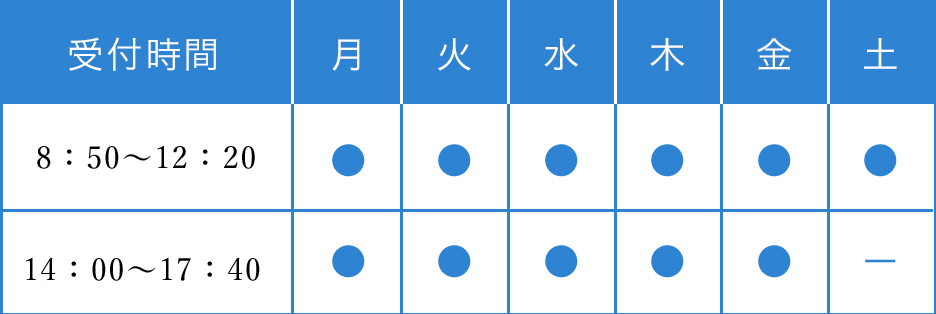
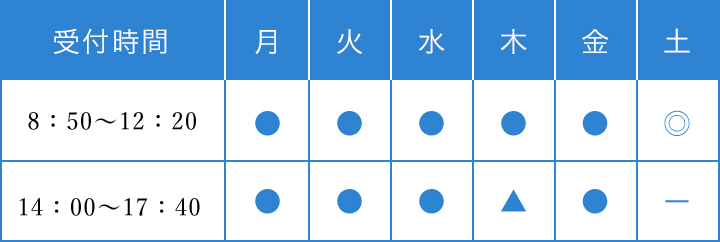
✨ release

diff --git a/htdocs/wp-content/themes/ishibashi/medical/mainsymptom.php b/htdocs/wp-content/themes/ishibashi/medical/mainsymptom.php
@@ -4,35 +4,20 @@
     <p>主な症状と病気</p>
   </h3>
   <div class="medical-contents-item-contents">
-    <p class="medical-contents-item-contents-tit">腰痛</p>
-    <p class="medical-contents-item-contents-main-des">腰痛は怖くない。<br>手術が必要な腰痛はほとんどありません。<br>痛みが強いときには無理は禁物ですが、過度の安静もよくありません。<br>適切なリハビリ（運動療法）が大事です。<br>レッドフラッグサイン（安静時の痛み、発熱、下肢の痺れなど）の見極めが大事。</p>
-    <p class="medical-contents-item-contents-des">腰椎椎間板ヘルニア、腰部脊柱管狭窄症、骨粗鬆症、化膿性脊椎炎、悪性腫瘍、非特異的腰痛</p>
-    <p class="medical-contents-item-contents-tit">膝の痛み</p>
-    <p class="medical-contents-item-contents-main-des">中高年の膝痛の主な原因は、関節軟骨の摩耗と半月板の傷です。<br>ヒアルロン酸の注射と下肢の筋力を鍛える事で痛みを治す事が出来ます。<br>病院でのリハビリや自宅での運動を指導します。</p>
-    <p class="medical-contents-item-contents-des">変形性膝関節症、半月板損傷、脆弱性骨折、骨壊死、関節リウマチ</p>
-    <p class="medical-contents-item-contents-tit">首、肩の痛み、肩こり</p>
-    <p class="medical-contents-item-contents-main-des">肩の周りの筋肉をほぐし、肩の運動をする事で肩関節の機能を回復させます。<br>肩甲骨を動かせるようになる事がポイントです。<br>中高年の場合、腱板に傷があることが多いので、ヒアルロン酸の注射も併用します。</p>
-    <p class="medical-contents-item-contents-des">頸椎椎間板ヘルニア、頸椎症、後縦靭帯骨化症、五十肩、肩関節周囲炎、腱板損傷、四十肩、結晶誘発性肩関節炎、石灰化</p>
-    <p class="medical-contents-item-contents-tit">骨粗鬆症</p>
-    <p class="medical-contents-item-contents-main-des">１５年前から新しい薬が次々と開発され、骨粗鬆症の治療は大きく進歩しました。<br>早期に治療を開始する事で骨折のリスクを５０％以上減らします。<br>転倒での骨折や、いつの間にか骨折を生じていれば、それは骨粗鬆症です。<br>２０〜４４才の平均骨密度の７０％以下は骨粗鬆症です。治療の目的は骨折の予防です。<br>月１回の飲み薬、注射、半年に１回の注射などがあります。<br>骨折を早く治す注射もあります。</p>
-    <p class="medical-contents-item-contents-des"></p>
-    <p class="medical-contents-item-contents-tit">胸、背中の痛み</p>
-    <p class="medical-contents-item-contents-main-des"></p>
-    <p class="medical-contents-item-contents-des">帯状疱疹、胸椎黄色靭帯骨化症、脊椎圧迫骨折、骨粗鬆症</p>
-    <p class="medical-contents-item-contents-tit">肘痛</p>
-    <p class="medical-contents-item-contents-main-des"></p>
-    <p class="medical-contents-item-contents-des">テニス肘、上腕骨外上顆炎、上腕骨内上顆炎、変形性肘関節症、肘部管症候群</p>
-    <p class="medical-contents-item-contents-tit">手首、指の痛み、しびれ</p>
-    <p class="medical-contents-item-contents-main-des"></p>
-    <p class="medical-contents-item-contents-des">関節リウマチ、腱鞘炎、手根管症候群、ヘバーデン結節</p>
-    <p class="medical-contents-item-contents-tit">股関節痛</p>
-    <p class="medical-contents-item-contents-main-des"></p>
-    <p class="medical-contents-item-contents-des">亜脱臼、臼蓋形成不全、変形性股関節症、大腿骨頭壊死、脆弱性骨折</p>
-    <p class="medical-contents-item-contents-tit">膝の痛み</p>
-    <p class="medical-contents-item-contents-main-des"></p>
-    <p class="medical-contents-item-contents-des">変形性膝関節症、半月板損傷、脆弱性骨折、骨壊死、関節リウマチ</p>
-    <p class="medical-contents-item-contents-tit">足首/すね/くるぶし</p>
-    <p class="medical-contents-item-contents-main-des"></p>
-    <p class="medical-contents-item-contents-des">シンスプリント、疲労骨折、捻挫、変形性足関節症</p>
+    <?php if( have_rows('main_medical', 'option') ):
+      while( have_rows('main_medical', 'option') ): the_row();?>
+      <?php
+      $item = get_sub_field('main_medical_group');
+      ?>
+      <p class="medical-contents-item-contents-tit">
+        <?php echo $item['tit']?>
+      </p>
+      <p class="medical-contents-item-contents-main-des">
+        <?php echo $item['des']?>
+      </p>
+      <p class="medical-contents-item-contents-des">
+        <?php echo $item['name']?>
+      </p>
+    <?php endwhile;endif;?>
   </div>
 </div>

diff --git a/htdocs/wp-content/themes/ishibashi/medical/ziko.php b/htdocs/wp-content/themes/ishibashi/medical/ziko.php
@@ -4,12 +4,13 @@
     <p>交通事故の症状</p>
   </h3>
   <div class="medical-contents-item-contents">
-    <p class="medical-contents-item-contents-main-des">車の停車中に後方より追突された後に首や肩に痛みが生じる事があります。<br>いわゆるむち打ち損傷ですが、頸椎挫傷、頸椎捻挫、外傷性頸部症候群などと診断されます。<br>頸部、肩の痛みに加え、頭痛、腰背部痛、時にめまい、上肢のしびれなどが生じる事もあります。<br>人間の頭の重さは約５〜６ｋｇでボーリングのボールと同じ程度の重さです。<br>この頭を細い首の骨（頸椎）とその周りの筋肉で支えています。<br>追突事故の際に、その勢いで頭が前方に引っ張られ、首の筋肉が急に引っ張られた状態になります。<br>そのために首の筋肉に痛みが生じます。<br>首の筋肉は頭や、肩、上肢、背中にもつながっていますので、そこにも痛みが生じる訳です。<br>筋肉の損傷ですから、レントゲンでは異常は出ません。また、軽微な損傷なのでMRIにも異常は出ません。<br>治療は、急性期は安静と鎮痛剤が有効ですが、１ヶ月をすぎると効果は元弱します。<br>軽い運動、ストレッチなどが有効です。<br>強いマッサージはかえって逆効果となります。
-首に負担がかかる、スマホやコンピューターの操作は短時間にしてください。</p>
+    <p class="medical-contents-item-contents-main-des">
+      <?php the_field('main_ziko','option') ?>
+    </p>
 <p class="medical-contents-item-contents-des"></p>
 <p class="medical-contents-item-contents-tit">入院・手術について</p>
 <p class="medical-contents-item-contents-main-des">入院や手術が必要な方は、なるべく希望に応じた病院をご紹介いたします。</p>
-<p class="medical-contents-item-contents-des">協力病院：千早病院、福岡和白病院、福岡青洲会病院、八木病院、杉岡記念病院　など</p>
+<p class="medical-contents-item-contents-des">協力病院：九大病院、千早病院、福岡和白病院、原土井病院、福岡輝栄会病院、福岡みらい病院、貝塚病院、福岡青洲会病院　など</p>
 <p class="medical-contents-item-contents-tit">禁煙治療</p>
 <p class="medical-contents-item-contents-main-des">禁煙したいけど出来ない人は相談してください。<br>「禁煙治療のための標準手順書」にそって治療します。<br>飲み薬または貼り薬を使います。 治療期間は３ヶ月です。<br>たとえ途中でタバコを吸ってもあきらめずに病院に通う事が大事です。<br>一緒に頑張りましょう。</p>
 <p class="medical-contents-item-contents-des"></p>

diff --git a/htdocs/wp-content/themes/ishibashi/commons/head.php b/htdocs/wp-content/themes/ishibashi/commons/head.php
@@ -8,15 +8,21 @@ foreach($pagelinks as $links){
     $tit = $links;
   }
 }
-// var_dump($tit);
+
 if($tit['en'] == 'top'){
   $tit['en'] = '';
 }else{
   $tit["en"] = $tit["en"].' | ';
 }
 
+if($u == '/'){
+  $tit = $pagelinks[0];
+  $tit['en'] = '';
+}
 
 
+
+$url =  (empty($_SERVER['HTTPS']) ? 'http://' : 'https://') . $_SERVER['HTTP_HOST'] . $_SERVER['REQUEST_URI'];
 ?>
 
 <!DOCTYPE html>
@@ -29,4 +35,11 @@ if($tit['en'] == 'top'){
     <script src='<?php echo get_template_directory_uri(); ?>/assets/js/lib.js' defer></script>
     <script src="<?php echo get_template_directory_uri(); ?>/assets/js/app.js" defer></script>
     <meta name="viewport" content="width=device-width, initial-scale=1">
+    <meta content="福岡市東区にある地域のかかりつけ医、石橋整形外科です。整形外科,リハビリテーション科,リウマチ科があります。" name="description"/>
+    <meta property="og:url" content="<?php echo $url?>" />
+    <meta property="og:type" content="website" />
+    <meta property="og:title" content="<?php echo strtoupper($tit['en']); bloginfo( 'name' );?>" />
+    <meta property="og:description" content="福岡市東区にある地域のかかりつけ医、石橋整形外科です。腰痛、関節痛、リウマチ、巻き爪など、その他交通事故の治療もしています。" />
+    <meta property="og:site_name" content="<?php echo bloginfo( 'name' ); ?>" />
+    <meta property="og:image" content="<?php echo get_template_directory_uri(); ?>/assets/img/MV.jpg" />
   </head>

diff --git a/htdocs/wp-content/themes/ishibashi/functions.php b/htdocs/wp-content/themes/ishibashi/functions.php
@@ -11,5 +11,43 @@ $pagelinks = array(
 
 
 if( function_exists('acf_add_options_page') ) {
-  acf_add_options_page();
+  $parent = acf_add_options_page(array(
+    'page_title'  => __('Theme General Settings'),
+    'menu_title'  => __('option'),
+    'redirect'    => false,
+  ));
+  $sub = array(
+    array("key"=>"main-symptom","ja"=>"主な症状と病気の設定"),
+    array("key"=>"rheumatism","ja"=>"リウマチの設定"),
+    array("key"=>"makizume","ja"=>"巻き爪/陥入爪の設定"),
+    array("key"=>"rihabiri","ja"=>"リハビリの設定"),
+    array("key"=>"ziko","ja"=>"交通事故の設定"),
+    array("key"=>"recruit","ja"=>"募集要項の設定"),
+  );
+  foreach ($sub as &$s) {
+    acf_add_options_sub_page(array(
+          'page_title'    => $s["ja"],
+          'menu_title'    => $s["ja"],
+          'menu_slug'     => 'theme-options-'.$s["key"],
+          'capability'    => 'edit_posts',
+          'parent_slug' => $parent['menu_slug'],
+          'position'  => false,
+        ));
+  }
 }
+
+
+function my_admin_script() {
+  global $hook_suffix;
+  echo '<script>
+    (function($) {
+      var p = "'.$hook_suffix.'";
+      if(p.indexOf("option_page") >= 0){
+        $("#submitdiv").css("position","fixed");
+      }
+    }(jQuery));
+    
+  </script>';
+}
+
+add_action('admin_print_footer_scripts', 'my_admin_script');

diff --git a/htdocs/wp-content/themes/ishibashi/medical/rihabiri.php b/htdocs/wp-content/themes/ishibashi/medical/rihabiri.php
@@ -8,8 +8,12 @@
       <img src="<?php echo get_template_directory_uri(); ?>/assets/img/medical/staff.png">
     </div>
     <div class="medical-contents-item-contents-wrap">
-      <p class="medical-contents-item-contents-main-des">当院では理学療法士2名が常勤しており、学生・社会人から高齢者まで幅広い年齢層を対象とし、質の高いリハビリテーションを提供できるように心がけています。リハビリテーションでは、関節の動き・痛みの改善、学生・社会人のスポーツ障害、高齢者のバランス能力低下など、様々なニーズに対応しています</p>
-      <p class="medical-contents-item-contents-main-des">受付時間<br>平日 8:40〜12:20 / 14:00〜17:40<br>土 8:30〜14:00<br>※ 木曜日の午後は14:00〜16:00</p>
+      <p class="medical-contents-item-contents-main-des">
+        <?php the_field('main_rihabiri_des','option') ?>
+      </p>
+      <p class="medical-contents-item-contents-main-des">
+        <?php the_field('main_rihabiri_time','option') ?>
+      </p>
     </div>
     
   </div>

diff --git a/htdocs/wp-content/themes/ishibashi/medical/riumachi.php b/htdocs/wp-content/themes/ishibashi/medical/riumachi.php
@@ -4,6 +4,8 @@
     <p>リウマチ</p>
   </h3>
   <div class="medical-contents-item-contents">
-    <p class="medical-contents-item-contents-main-des">指や手首、膝などに痛みや腫れが１ヶ月以上続くとリウマチの可能性があります。<br>早く病院に行って検査を受けましょう。<br>リウマチは早期に治療を開始する事が大事です。<br>メトトレキサートや生物製剤などのよく効く薬があります。<br>院長は日本リウマチ学会認定専門医です。</p>
+    <p class="medical-contents-item-contents-main-des">
+      <?php the_field('main_rheumatism','option') ?>
+    </p>
   </div>
 </div>

diff --git a/htdocs/wp-content/themes/ishibashi/medical/makizume.php b/htdocs/wp-content/themes/ishibashi/medical/makizume.php
@@ -4,6 +4,8 @@
     <p>巻き爪/陥入爪</p>
   </h3>
   <div class="medical-contents-item-contents">
-    <p class="medical-contents-item-contents-main-des">厳密に言えば、巻き爪と陥入爪は違います。<br>爪が皮膚に食い込んで化膿した状態が陥入爪です。ハイヒールや深爪が原因です。<br>感染症に対する治療が大事です。足を清潔に保つことです。<br>巻き爪は弾性ワイヤーで変形を矯正しています。自費になります。(5000円)</p>
+    <p class="medical-contents-item-contents-main-des">
+      <?php the_field('main_makizume','option') ?>
+    </p>
   </div>
 </div>

diff --git a/htdocs/wp-content/themes/ishibashi/commons/footer.php b/htdocs/wp-content/themes/ishibashi/commons/footer.php
@@ -16,7 +16,7 @@
           813-0032　<a href="https://goo.gl/maps/Vuk3Dyp1QZU2" target="_blank">福岡市東区土井1-1-3</a><br>TEL 092-691-1031 / FAX 092-691-1032</p>
       </div>
       <div class="footer-baseInfo-item">
-        <p>平日 8:30-12:00 / 14:00-17:30<br>土	8:30-12:00 <br>休診日	日曜日、祝日、年末年始</p>
+        <p>月火水金 8:50-12:20 / 14:00-17:40<br>木 8:50-12:20 / 14:00-16:20<br>土	8:50-14:00 <br>休診日	日曜日、祝日、年末年始</p>
       </div>
       <div class="footer-baseInfo-item">
       <a href="#"><img src="<?php echo get_template_directory_uri(); ?>/assets/img/pagetop.png"></a></div>

diff --git a/htdocs/wp-content/themes/ishibashi/recruit/main.php b/htdocs/wp-content/themes/ishibashi/recruit/main.php
@@ -4,7 +4,7 @@
     <?php if( have_rows('recruit_options', 'option') ):
       while( have_rows('recruit_options', 'option') ): the_row();?>
       <div class="recruit-main-item">
-        <?php $activeClass = get_sub_field('recruit_is') ? '' : 'not_recruit'?>
+        <?php $activeClass = get_sub_field('recruit_is') == 'boshu' ? '' : 'not_recruit'?>
         <div class="recruit-main-tit <?php echo $activeClass;?>">
           <?php the_sub_field('recruit_title');?>
         </div>

diff --git a/htdocs/wp-content/themes/ishibashi/commons/other.php b/htdocs/wp-content/themes/ishibashi/commons/other.php
@@ -25,7 +25,7 @@
         <div class="top-time-item">
           <img src="<?php echo get_template_directory_uri(); ?>/assets/img/time.jpg">
         </div>
-        <p>木曜午後は16:00まで<br>土曜は8:40~14:00<br>休診日　日曜、祝日、年末年始</p>
+        <p>木曜午後は16:20まで<br>土曜は8:40~14:00<br>休診日　日曜、祝日、年末年始</p>
       </div>
     </div>
   </div>

diff --git a/htdocs/wp-content/themes/ishibashi/top/time.php b/htdocs/wp-content/themes/ishibashi/top/time.php
@@ -7,6 +7,6 @@
     <div class="top-time-item">
       <img src="<?php echo get_template_directory_uri(); ?>/assets/img/time.jpg">
     </div>
-    <p>木曜午後は14:00~16:20<br>土曜は8:50~14:00<br>休診日　日曜、祝日、年末年始</p>
+    <p>木曜午後は16：20まで<br>土曜は8:50~14:00<br>休診日　日曜、祝日、年末年始</p>
   </div>
 </div>
